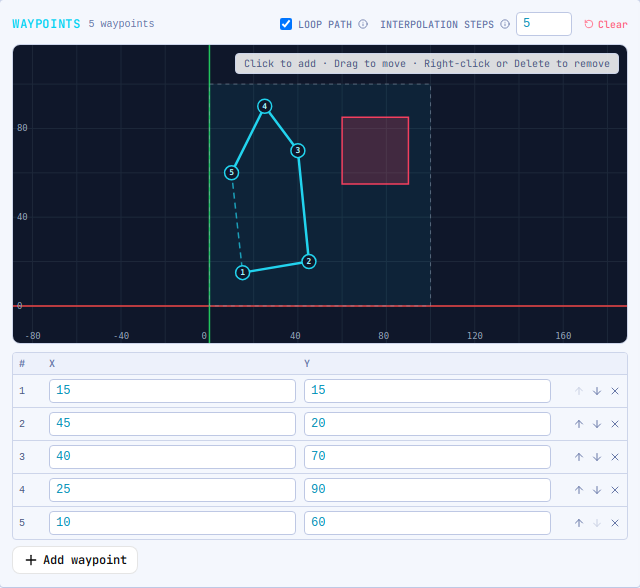
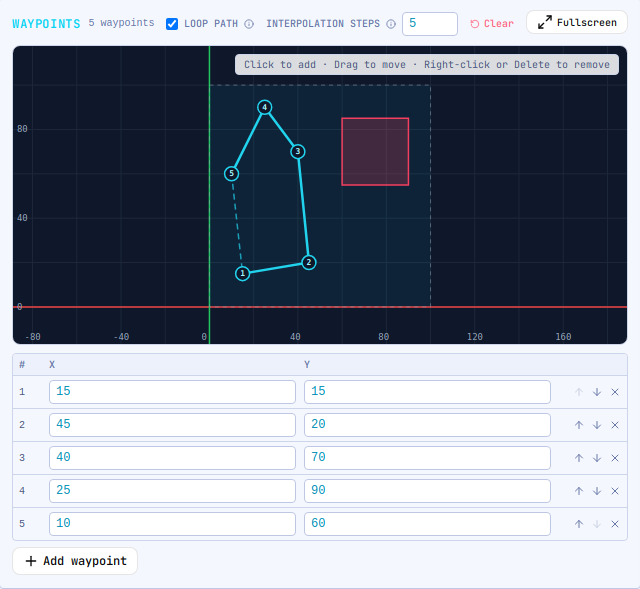
docs: document the fullscreen editors and waypoint checks

diff --git a/USER_GUIDE.md b/USER_GUIDE.md
@@ -1134,6 +1134,7 @@ With the **Waypoint Navigation** pattern, the **Visual Editor** shows the waypoi
 | **Loop Path** | On: after the last waypoint the point travels back to the first and repeats the path. Off: it stops on the last waypoint. | On |
 | **Interpolation Steps** | Values per segment, a whole number of at least 1. Applied when you leave the field or press `Enter`. | 1 |
 | **Clear** | Deletes every waypoint after asking *Clear all waypoints?* (**Yes** / **No**; `Esc` cancels). | — |
+| **Fullscreen** | 2D and Geospatial: opens the editor on the whole window, with the plane or map on the left and the table on the right. **Exit Fullscreen** or `Esc` go back; the map keeps its view. | — |
 | Visual area | A plane in 2D or a map in Geospatial, see below. | — |
 | Table | One row per waypoint, see below. | — |
 
@@ -1150,9 +1151,11 @@ With the **Waypoint Navigation** pattern, the **Visual Editor** shows the waypoi
 On the 2D plane and on the map (the hint line says *Click to add · Drag to move · Right-click or
 Delete to remove*):
 
-- click empty space to append a waypoint at the end of the path;
-- drag a waypoint to move it: the move is applied when you release the mouse, and a rejected drop
-  goes back;
+- click empty space to append a waypoint at the end of the path (a click just outside the edge of
+  the region places it on the edge);
+- drag a waypoint to move it: the move is applied when you release the mouse. The waypoint stops at
+  the edge of the region, and it turns red (with its segments) while the drop would be rejected,
+  for example inside a forbidden zone; a rejected drop goes back;
 - right-click a waypoint to delete it, or click it to select it and press `Delete` or `Backspace`.
 
 ![Waypoint editor on the map](docs-assets/user-guide/40-waypoint-editor-map.png)
@@ -1160,13 +1163,19 @@ Delete to remove*):
 **Table:** columns **#**, **X**, **Y** and **Z** (**Lat**, **Lon** and **Alt** in Geospatial; no
 Z in 2D), with ↑ / ↓ on each row to move the waypoint up or down in the path and ✕ to delete it.
 **+ Add waypoint** adds one at the centre of the region (the first) or next to the last one
-(shifted 5 % of the region span, kept inside the region), with the same Z or altitude. The fields
+(shifted 5 % of the region span), with the same Z or altitude; when that place is not valid (outside
+a custom polygon, inside an obstacle) it looks for the nearest valid one. The fields
 are applied when you leave them or press `Enter`; text that is not a number is rejected, latitude
 is limited to ±90 and longitude to ±180.
 
-**Validation (2D and Geospatial):** a waypoint inside a forbidden obstacle or outside the region,
-or a segment that crosses a wall or a forbidden zone or leaves the region, is rejected: a red
-warning appears over the editor (✕ closes it) and the value goes back.
+**Validation:** in 2D and Geospatial, a waypoint inside a forbidden obstacle or outside the region,
+or a segment that crosses a wall or a forbidden zone or leaves the region, is rejected; a waypoint
+on the edge of the region, or a segment along it, is valid. In 3D, a waypoint outside the 3D shape
+is rejected. A red warning appears over the editor (✕ closes it) and the value goes back.
+
+Waypoints that were already stored and are no longer valid (for example after changing the region
+in **Spatial Boundaries**) are drawn in red, their row number turns red (hover it to see why), and a
+notice above the editor counts them. The generator follows the path as it is, so fix or move them.
 
 #### Point: graph route
 
@@ -1215,7 +1224,7 @@ The **Spatial Boundaries** tab sets the region where the point lives.
 
 | Element | What it does | Default |
 |---|---|---|
-| Visual editor | 2D canvas, 3D view or world map, depending on the Coordinate System (see below). **Expand View / High-Precision Editor** opens a larger editor with presets (**Square**, **Triangle**, **Circle**, **New Region**), zoom and obstacle management; `Esc` closes it. | — |
+| Visual editor | 2D canvas, 3D view or world map, depending on the Coordinate System (see below). **Fullscreen** opens the editor on the whole window, with presets (**Square**, **Triangle**, **Circle**, **New Region**), zoom and obstacle management (in Geospatial the altitude settings stay in the tab); **Exit Fullscreen**, **Done** or `Esc` close it. | — |
 | **Boundary Collision Action** | Same as Boundary Behavior. | Clamp |
 | **Outer Envelope Bounding Box (AABB Bounds)** | **Min/Max X, Y, Z** (Latitude, Longitude, Altitude in Geospatial): the box the point lives in. | 0–100 on every axis |
 | **Exact Individual Polygon Vertices** | 2D and Geospatial: the vertices of a custom polygon (3 or more), when you drew one. The box then fits the polygon. In 3D the polygon is not used, and the list only shows the footprint of the drawn shape. | — |
@@ -1241,8 +1250,8 @@ How editing works in every boundary and route editor:
   the menu is the one of the nearest edge within 10 px.
 - The presets (**Square**, **Triangle**, **Circle**) fill the current bounding box, so the region
   does not shrink. New obstacles appear at the centre of the region.
-- **New Region** asks for confirmation; `Esc` closes it without changes. In the expanded editor,
-  the first `Esc` closes the confirmation and the second closes the editor.
+- **New Region** asks for confirmation; `Esc` closes it without changes. In the fullscreen
+  editor, the first `Esc` closes the confirmation and the second closes the editor.
 
 **3D view:**
 
@@ -1257,7 +1266,7 @@ How editing works in every boundary and route editor:
   Min/Max fields only move it; resize it in the 3D view.
 - The height handle follows the cursor, and a negative height does not move the base.
 
-![Geofence editor on the map (Expand View)](docs-assets/user-guide/27-point-map.png)
+![Geofence editor on the map (Fullscreen)](docs-assets/user-guide/27-point-map.png)
 
 **World map (Geospatial):**
 
@@ -1265,7 +1274,7 @@ How editing works in every boundary and route editor:
   ±180°. Drag empty space to pan the map.
 - Right-click on the map to add a vertex on the nearest edge; right-click on a vertex to delete it
   (a region keeps at least 3).
-- **New Box Region** asks for confirmation first (`Esc` closes it without changes; in the expanded
+- **New Box Region** asks for confirmation first (`Esc` closes it without changes; in the fullscreen
   editor, the first `Esc` closes the confirmation and the second the editor), and keeps the current
   region until you finish drawing the new box (releasing the mouse outside the map also finishes
   it). The presets and a new box zoom the map to the region.

diff --git a/packaging/release-notes.md b/packaging/release-notes.md
@@ -5,7 +5,7 @@
 - **Clone naming offsets:** `H${index+1}` names the clones of *H1* as *H2*, *H3*…
 - **Conditional rules** can override a variable with a full generator (e.g. Random 40–120), not only with a fixed value.
 - **Event loss per flow:** lose a random share of the messages and schedule outages (the last ticks of every N); lost messages are counted as **dropped** in the flow list and in Statistics.
-- **Waypoint editor:** Waypoint Navigation is now usable, with a visual editor on the 2D plane or the map and a coordinate table.
+- **Waypoint editor:** Waypoint Navigation is now usable, with a visual editor on the 2D plane or the map (also in fullscreen) and a coordinate table; waypoints outside the region or in a forbidden zone are flagged in red.
 - **3D shapes define the generation region:** the cube, pyramid, cone or sphere drawn in the 3D view is where points are generated.
 - **Fixes:**
   - a variable has a single value per message (repeated references, formulas and conditional rules all see the same value);
@@ -18,7 +18,7 @@
   - the Initial Value of numeric variables can be left empty; duplicate variable names are reported; fast typing no longer loses characters in the variable editors;
   - progressive clock drift works in every time mode; Circular Orbit turns around the centre of the region; Random Walk stays inside custom polygons and starts inside the region;
   - Graph Route Fixed Sequences can repeat nodes; list `.size`, `.first` and `.last` work with every strategy; Fixed Altitude uses its value in Geospatial;
-  - the route editor uses the same scale on both axes; `Esc` closes the New Region and New Box Region confirmations.
+  - the route editor uses the same scale on both axes; `Esc` closes the New Region and New Box Region confirmations; the Spatial Boundaries editor opens directly in fullscreen with a single button.
 - **Behaviour changes for existing projects:**
   - Waypoint Navigation sends each waypoint once per lap, followed by Interpolation Steps − 1 points towards the next one;
   - Circular Orbit always turns around the centre of the region, unless an explicit orbit centre is set;
